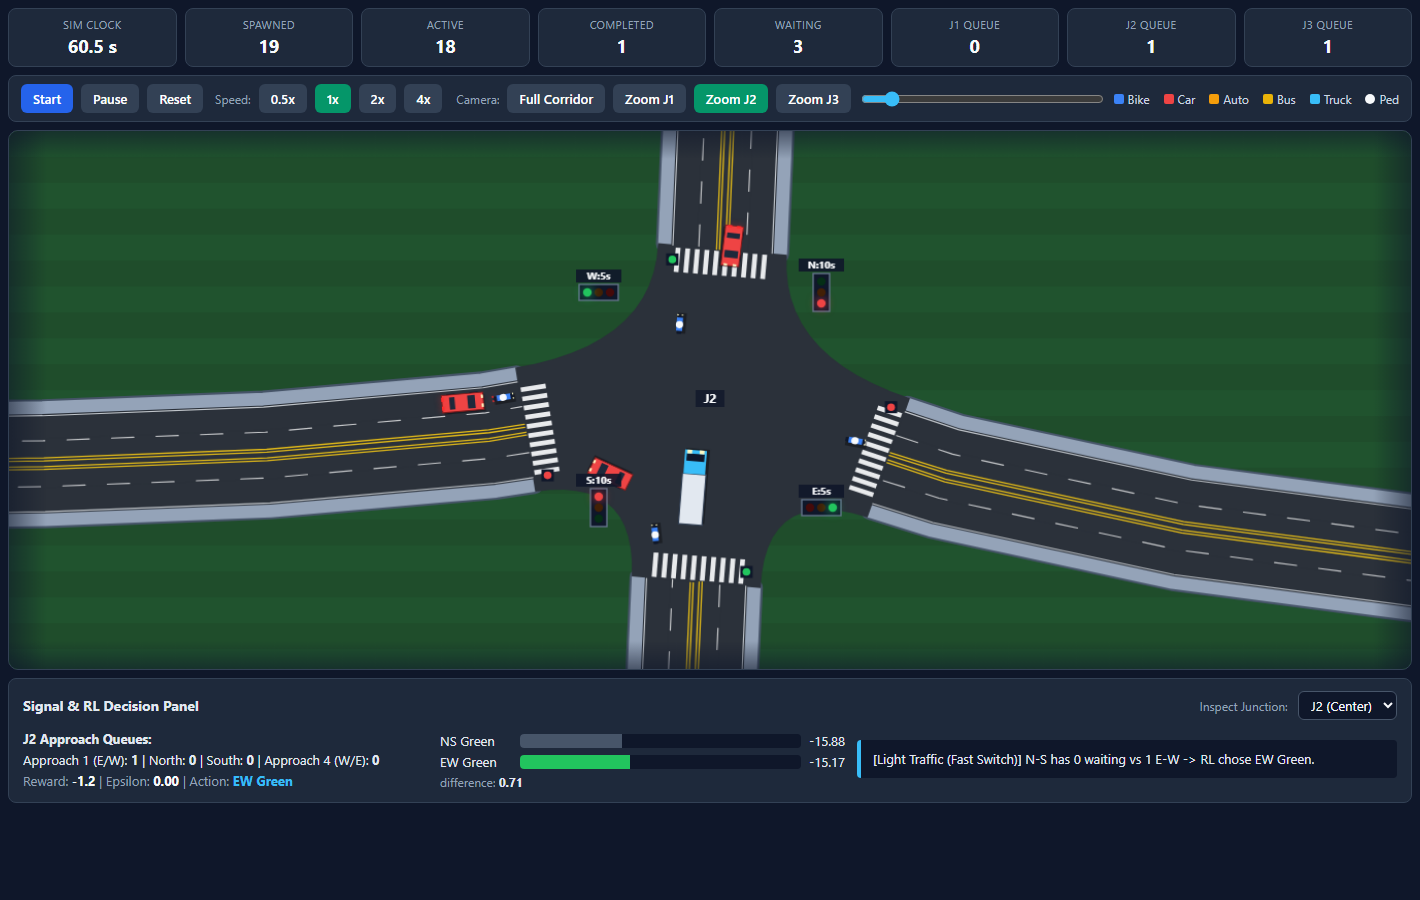
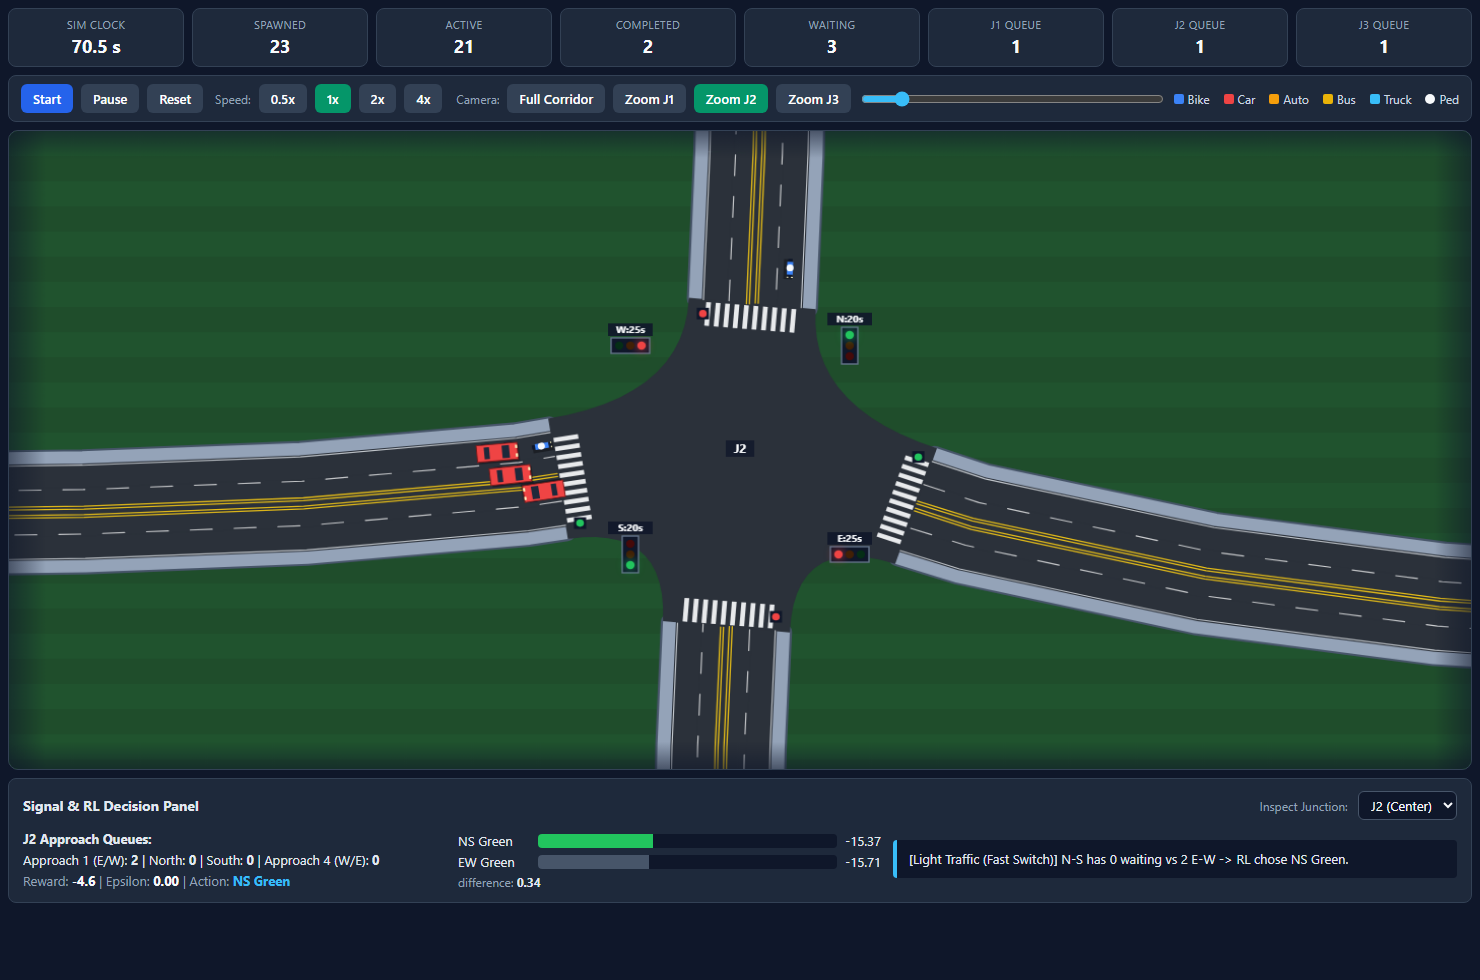
Update larger replay/compare screenshots and document 5 demo videos in README

diff --git a/README.md b/README.md
@@ -25,6 +25,15 @@ This project trains a **Deep Q-Network (DQN)** agent to observe live queues and 
 ### Side-by-Side Compare Mode (Fixed-Time vs Shared DQN)
 ![v2 Side-by-Side Compare](v2/docs/images/v2_side_by_side_compare.png)
 
+### Demo Video Recordings (`videos/`)
+1. **Traffic Simulation — Zoomed Junction (`Traffic Simulation-1.mp4`)** — Live vehicles, brake/headlights, pedestrians, countdowns, and RL Decision Panel.
+2. **Traffic Simulation — Full Corridor (`Full Corridor.mp4`)** — All 3 curved junctions (`J1–J2–J3`) running simultaneously.
+3. **Traffic Simulation — Extended Flow (`Traffic Simulation-2.mp4`)** — Multi-junction coordination across demand transitions.
+4. **Side-by-Side Compare Mode (`Side-by-Side Compare Mode.mp4`)** — Synchronized Fixed-Time vs Shared DQN comparison.
+5. **Analytics & Statistical Results (`Statistical Results & Overview - Controller Comparison & Training Analysis.mp4`)** — Overview, 95% CI charts, training curves, and Holm-corrected p-values.
+
+> **Note:** Three of the raw screen recordings (`155–211 MB`) exceed GitHub's `100 MB` file limit, so they are kept locally in `videos/`. Compress them under `100 MB` (or `10 MB` on free GitHub) and drag-and-drop them into GitHub's `README.md` editor to embed playable videos.
+
 ### Controller Comparison (10 Held-Out Seeds, Mean ± 95% CI)
 ![v2 Controller Comparison](v2/docs/images/v2_controller_comparison.png)
 
